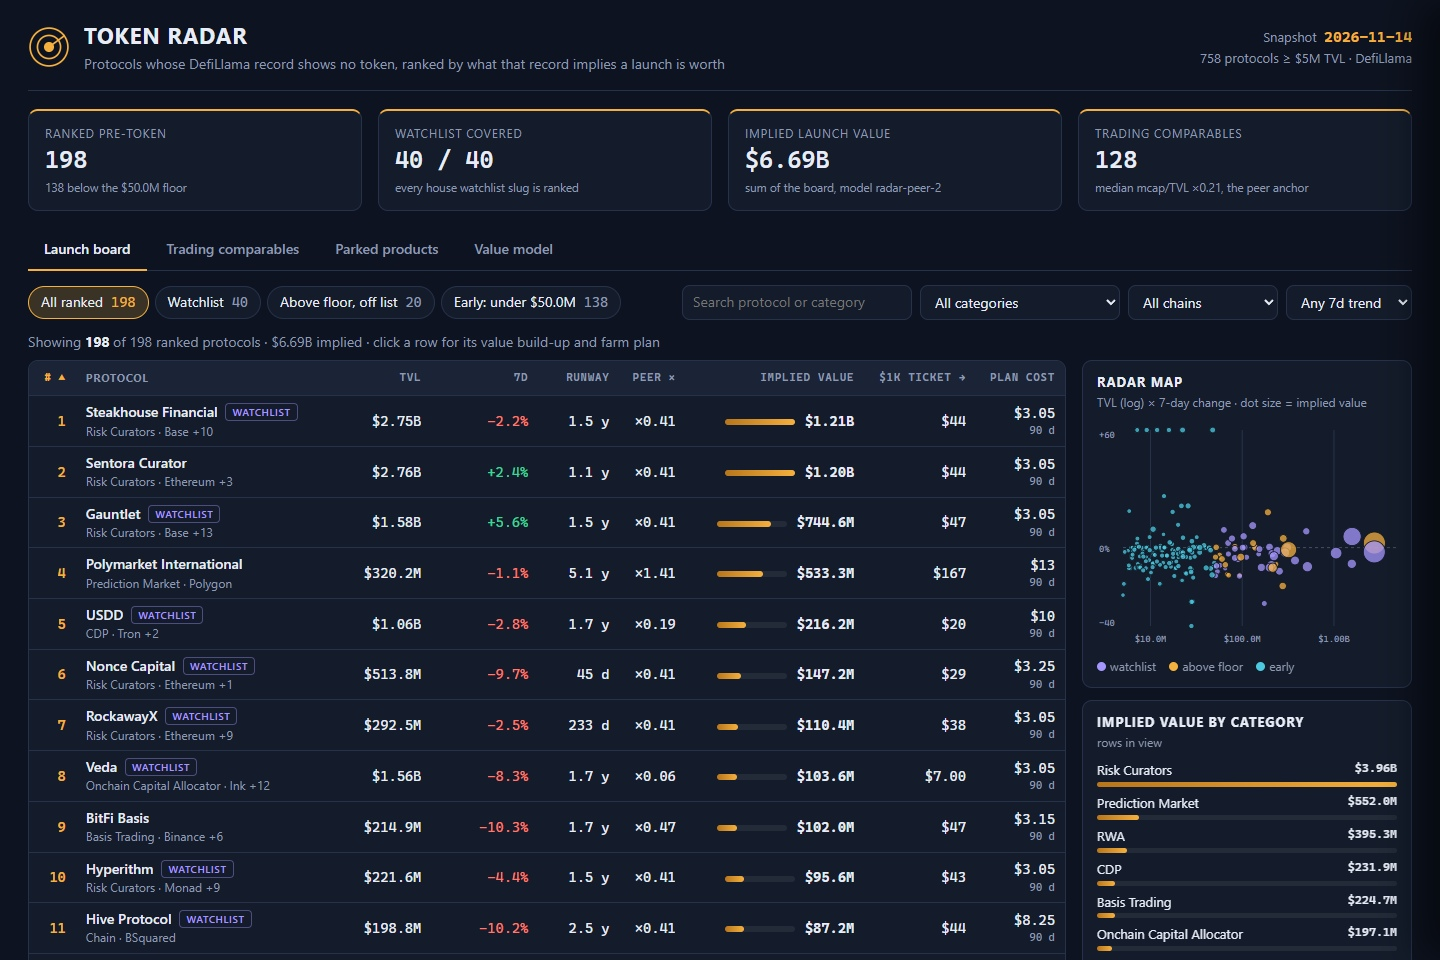
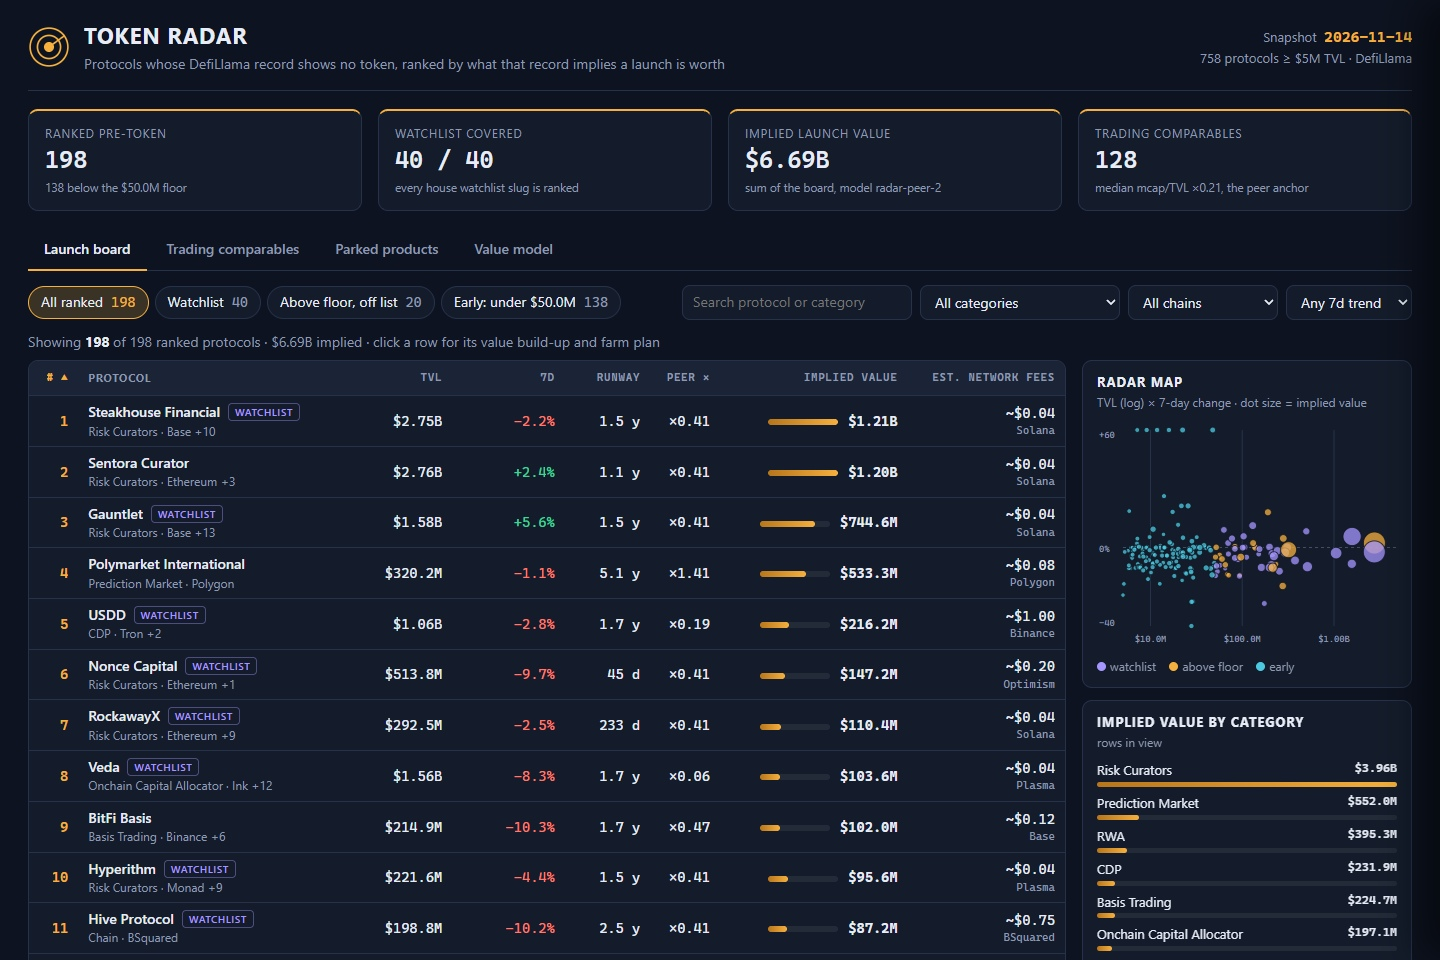
Make token radar farm plans conditional and costed

diff --git a/dashboard/model.js b/dashboard/model.js
@@ -29,9 +29,7 @@
     runway_floor: 0.7,
     runway_span: 0.5,
     runway_tau_days: 365,
-    unknown_age_days: 180,
-    community_share: 0.1,
-    ticket_usd: 1000
+    unknown_age_days: 180
   };
 
   // Categories the house watchlist rule treats as products of a parent token, and the name tests it uses.
@@ -103,11 +101,9 @@
     var age = p.listed_at ? Math.max(0, daysBetween(p.listed_at, asOf)) : null;
     var runway = M.runway_floor + M.runway_span * (1 - Math.exp(-(age === null ? M.unknown_age_days : age) / M.runway_tau_days));
     var implied = Math.max(1, Math.round(p.tvl_usd * multiple * momentum * runway));
-    var pool = implied * M.community_share;
     return {
       multiple: multiple, peer_n: peer ? peer.n : 0, momentum: momentum, growth: growth, age_days: age,
-      runway: runway, implied: implied,
-      per_ticket: Math.round(pool * M.ticket_usd / p.tvl_usd)
+      runway: runway, implied: implied
     };
   }
 
@@ -122,7 +118,8 @@
   /** The playbook family a category farms like. */
   function family(cat) {
     var c = cat || '';
-    if (/Curator|Capital Allocator|Yield|Basis|Stablecoin Wrapper|CeDeFi|Leveraged|Options Vault|Indexes|Farm|Liquidity Manager|Governance/.test(c)) return 'vault';
+    if (/Curator|Capital Allocator/.test(c)) return 'curate';
+    if (/Yield|Basis|Stablecoin Wrapper|CeDeFi|Leveraged|Options Vault|Indexes|Farm|Liquidity Manager|Governance/.test(c)) return 'vault';
     if (/Lending|CDP|Collateral|Uncollateralized/.test(c)) return 'lend';
     if (/Dexs|Derivatives|Prediction|OTC|Interest Rate/.test(c)) return 'trade';
     if (/RWA|Insurance/.test(c)) return 'rwa';
@@ -131,44 +128,46 @@
     return 'vault';
   }
 
-  /** A farm plan: concrete steps, each with an estimated cost (USD), hands-on minutes and calendar days.
-   *  Every number is read off the row (chains, TVL, 7-day change, the model's ticket payout). */
-  function farmPlan(p, s) {
+  /** A conditional participation plan. The snapshot supports chain and category selection only. */
+  function farmPlan(p) {
     var ch = cheapestChain(p.chains), gas = ch.gas, chain = ch.chain;
-    var name = p.name, fam = family(p.category), t = M.ticket_usd;
-    var ppm = (t / p.tvl_usd * 1e6).toFixed(2), steps = [];
-    function step(text, usd, note, minutes, days) {
-      steps.push({ text: text, usd: usd, minutes: minutes, days: days,
-        cost: (usd === 0 ? '$0' : '~' + money(usd)) + (note ? ' + ' + note : ''),
+    var name = p.name, fam = family(p.category), steps = [];
+    function step(title, text, transactions, minutes, days) {
+      var usd = gas * transactions;
+      steps.push({ title: title, text: text, usd: usd, minutes: minutes, days: days,
+        cost: transactions === 0 ? '$0 network fees' : p.chains.length ? '~' + money(usd) + ' network fees' : 'Network fees unknown',
         time: (minutes >= 60 ? (minutes / 60).toFixed(1) + ' h' : minutes + ' min') + ' hands-on' + (days > 0 ? ', over ' + days + ' days' : '') });
     }
-    var bridge = chain === 'Ethereum' ? 0 : 3;
-    step('Open ' + name + ' from its DefiLlama page (a link you trust) and confirm it still records no token; read its docs for a points, XP or season programme and its audits before moving money.', 0, '', 20, 0);
-    step('Fund a fresh wallet on ' + chain + ', the cheapest of its ' + p.chains.length + ' chain' + (p.chains.length === 1 ? '' : 's') + ' (est. ' + money(gas) + ' a transaction), with a $' + t + ' ticket' + (bridge ? ', bridged from Ethereum or withdrawn from an exchange straight to ' + chain : '') + '.', bridge + gas, '', 20, 0);
-    if (fam === 'vault') {
-      step('Deposit the ticket into ' + name + "'s largest stablecoin or ETH vault (approve + deposit, 2 transactions). Your $" + t + ' is ' + ppm + ' ppm of its ' + money(p.tvl_usd) + ' TVL.', gas * 2, '', 5, 0);
-      step('Hold and check weekly: vault share price, any points page, and the 7-day TVL trend (now ' + fmtPct(p.change_7d) + '). Time in the vault usually weighs as much as size.', 0, 'opportunity cost of the ticket', 65, 90);
+    step('Verify eligibility', 'Find the official ' + name + ' docs through its DefiLlama listing. Look for a live campaign, eligible markets, supported chains and a deadline. Stop here if there is no published way to qualify.', 0, 20, 0);
+    step('Check the route', p.chains.length
+      ? 'Verify the campaign supports ' + chain + ', the snapshot chain with the lowest modeled fee. Check the minimum amount, funding route and withdrawal terms before depositing.'
+      : 'Confirm a supported chain, minimum amount and withdrawal terms before depositing. The snapshot supplies no chain for this protocol.', 0, 10, 0);
+    if (fam === 'curate') {
+      step('Find a curated vault', 'Confirm the campaign names a specific vault or lending market. Check which platform hosts it and whether the curator is listed in its official market directory.', 0, 15, 0);
+      step('Verify a minimum deposit', 'If the hosted vault qualifies, check its current cap, underlying markets and withdrawal liquidity. Test the minimum deposit and match the receipt to the campaign tracker.', 2, 15, 7);
+    } else if (fam === 'vault') {
+      step('Test an eligible vault', 'If deposits count, use the smallest accepted amount in a listed vault. Approve only that amount and confirm that the deposit appears in the campaign tracker.', 2, 10, 0);
+      step('Check redemption', 'Record any lockup, exit fee or queue. Check the vault share price and the tracker before the next weekly review.', 0, 10, 7);
     } else if (fam === 'lend') {
-      step('Supply the ticket as collateral on ' + name + ' (approve + supply), then borrow 25-30% in a stablecoin to register as a borrower; stay under half the liquidation limit.', gas * 3 + 4, 'borrow interest', 10, 0);
-      step('Repay and re-borrow once a month to stay an active account; recheck the health factor after any 10% move in the collateral.', gas * 6, '', 30, 90);
+      step('Check the supply market', 'Confirm whether supplying alone qualifies and which assets count. If it does, test an eligible market with its minimum supply and verify campaign credit.', 2, 10, 0);
+      step('Check withdrawal liquidity', 'Review the asset’s utilization and available liquidity before leaving a position open. If the campaign requires borrowing, reassess the plan with interest and liquidation risk included.', 0, 10, 7);
     } else if (fam === 'trade') {
-      step('Trade on ' + name + ': split the ticket into 5 round trips across the month (about $5k volume), using limit orders where offered to keep fees low.', 10 + gas * 10, '', 40, 30);
-      step('Keep a small open position or LP half the ticket in its deepest pair through month end; volume and active days are the usual points inputs on venues like this.', gas * 2, 'impermanent-loss risk', 20, 60);
+      step('Test an eligible action', 'Look up the eligible markets and the minimum trade size. If a trade you already intended qualifies, preview its fee and slippage and verify campaign credit afterwards.', 2, 10, 0);
+      step('Review progress', 'Check the campaign tracker against the trade receipt. Record any position close costs and avoid volume or activity that the campaign excludes.', 0, 10, 7);
     } else if (fam === 'rwa') {
-      step('Complete ' + name + "'s onboarding/KYC if it asks (ID and proof of address); real-world-asset issuers often gate deposits by country.", 0, '', 30, 3);
-      step('Subscribe the minimum the product allows (often $100-1000) and hold it: the asset yield pays you while you wait.', gas * 2, '', 10, 90);
+      step('Check access and redemption', 'Review the issuer’s location and onboarding rules, subscription minimum and redemption windows. Verify the issuer before sharing any identity documents.', 0, 30, 0);
+      step('Check subscription credit', 'If the issuer confirms eligibility and an acceptable redemption window, verify that a minimum subscription qualifies in the account tracker.', 2, 10, 7);
     } else if (fam === 'chain') {
-      step('Bridge to ' + name + ' and make 10 real transactions across its own apps (swap, lend, pay, mint), spread over separate weeks rather than one day.', gas * 10 + 2, '', 60, 28);
-      step('Keep a balance on the network and delegate or run a light node where offered: long-lived balances usually count more than bursts.', 0, 'parked capital', 30, 90);
+      step('Test a listed app', 'Check the campaign’s approved apps and routes. If it includes an app you already use, confirm one eligible action and save the transaction receipt.', 1, 15, 0);
+      step('Review campaign credit', 'Use the official tracker to confirm whether the receipt counted and record any minimum activity days stated in the rules.', 0, 10, 7);
     } else {
-      step('Stake the native asset through ' + name + ' (approve + stake) and note the unbonding period before committing.', gas * 2, 'unbonding delay', 10, 0);
-      step('Hold the receipt token and use it once in a listed DeFi integration; integrations are often counted separately.', gas * 3, '', 20, 75);
+      step('Check the eligible staking route', 'Verify the supported asset, minimum stake and unbonding delay. If the campaign explicitly credits staking, confirm that a minimum stake appears in the tracker.', 2, 10, 0);
+      step('Review withdrawal terms', 'Record the earliest exit date and any slashing or receipt-token price exposure before extending the position.', 0, 10, 7);
     }
-    step('Know the exit before you start: withdrawing to an exchange costs about ' + money(gas * 2) + ' on ' + chain + '. At this board\'s model a $' + t + ' ticket held to a launch maps to ~' + money(s.per_ticket) + ' of a 10% community pool.', gas * 2, '', 5, 0);
-    step('Stop rule: exit if TVL falls 30% below ' + money(p.tvl_usd) + ', if deposits are paused, or if an incident report appears; re-score with each new snapshot.', 0, '', 15, 90);
+    step('Plan the exit', 'Recheck if campaign credit disappears, withdrawals pause, an incident is reported, or TVL falls 30% from the snapshot to ' + money(p.tvl_usd * 0.7) + '. Confirm the official exit instructions before acting.', 2, 10, 0);
     var usd = 0, minutes = 0, days = 0;
     steps.forEach(function (x) { usd += x.usd; minutes += x.minutes; days = Math.max(days, x.days); });
-    return { steps: steps, usd: usd, minutes: minutes, days: days, chain: chain };
+    return { steps: steps, usd: p.chains.length ? usd : null, minutes: minutes, days: days, chain: chain };
   }
 
   function fmtPct(x) { return x === null || x === undefined ? 'unreported' : (x >= 0 ? '+' : '') + x.toFixed(1) + '%'; }
@@ -185,7 +184,7 @@
         parked.push({ slug: p.slug, name: p.name, category: p.category, chains: p.chains, tvl_usd: p.tvl_usd, change_7d: p.change_7d, why: why });
       } else if (recordsNoToken(p)) {
         var s = score(p, peers, snap.as_of);
-        var plan = farmPlan(p, s);
+        var plan = farmPlan(p);
         rows.push({
           slug: p.slug, name: p.name, category: p.category, chains: p.chains, tvl_usd: p.tvl_usd,
           change_7d: p.change_7d, listed_at: p.listed_at, watchlist: !!watch[p.slug],

diff --git a/dashboard/app.js b/dashboard/app.js
@@ -13,20 +13,21 @@
   var COLS = [
     ['rank', '#', 'num'], ['name', 'Protocol', ''], ['tvl', 'TVL', 'num'], ['change', '7d', 'num'],
     ['age', 'Runway', 'num'], ['multiple', 'Peer ×', 'num'], ['implied', 'Implied value', 'num wide'],
-    ['ticket', '$1k ticket →', 'num'], ['cost', 'Plan cost', 'num']
+    ['cost', 'Est. network fees', 'num']
   ];
   var KEY = {
     rank: function (r) { return r.rank; }, name: function (r) { return r.name.toLowerCase(); },
     tvl: function (r) { return r.tvl_usd; }, change: function (r) { return r.change_7d === null ? -1e9 : r.change_7d; },
     age: function (r) { return r.factors.age_days === null ? -1 : r.factors.age_days; },
     multiple: function (r) { return r.factors.multiple; }, implied: function (r) { return r.implied_value_usd; },
-    ticket: function (r) { return r.factors.per_ticket; }, cost: function (r) { return r.plan.usd; }
+    cost: function (r) { return r.plan.usd; }
   };
 
   function esc(s) { return String(s).replace(/[&<>"']/g, function (c) { return '&#' + c.charCodeAt(0) + ';'; }); }
   function $(id) { return document.getElementById(id); }
   function days(d) { return d === null ? 'unknown' : d >= 365 ? (d / 365).toFixed(1) + ' y' : d + ' d'; }
   function x2(v) { return '×' + v.toFixed(2); }
+  function feeLabel(usd) { return usd === null ? 'Unknown' : '~' + money(usd); }
   function cls(v) { return v === null ? 'flat' : v > 0.5 ? 'up' : v < -0.5 ? 'down' : 'flat'; }
 
   /* ---- state in the hash ---- */
@@ -82,7 +83,12 @@
       return true;
     });
     var key = KEY[S.sort] || KEY.rank, dir = S.dir === 'desc' ? -1 : 1;
-    return rows.sort(function (a, b) { var x = key(a), y = key(b); return (x < y ? -1 : x > y ? 1 : a.rank - b.rank) * dir; });
+    return rows.sort(function (a, b) {
+      var x = key(a), y = key(b);
+      if (x === y) return a.rank - b.rank;
+      if (x === null || y === null) return x === null ? 1 : -1;
+      return (x < y ? -1 : 1) * dir;
+    });
   }
 
   function board() {
@@ -96,7 +102,7 @@
         return '<button class="chip' + (S.seg === s[0] ? ' on' : '') + '" data-seg="' + s[0] + '">' + esc(s[1]) + ' <i>' + n + '</i></button>';
       }).join('') + '</div>' +
       '<div class="controls">' +
-      '<input id="q" type="search" placeholder="Search protocol or category" value="' + esc(S.q) + '">' +
+      '<input id="q" type="text" inputmode="search" aria-label="Search protocol or category" placeholder="Search protocol or category" value="' + esc(S.q) + '">' +
       '<select id="cat" aria-label="Category">' + options(cats, S.cat, 'All categories') + '</select>' +
       '<select id="chain" aria-label="Chain">' + options(chains, S.chain, 'All chains') + '</select>' +
       '<select id="mom" aria-label="7-day momentum"><option value="">Any 7d trend</option><option value="up"' + (S.mom === 'up' ? ' selected' : '') + '>TVL growing</option><option value="down"' + (S.mom === 'down' ? ' selected' : '') + '>TVL shrinking</option></select>' +
@@ -121,8 +127,7 @@
       '<td class="num">' + days(f.age_days) + '</td>' +
       '<td class="num">' + x2(f.multiple) + '</td>' +
       '<td class="num wide"><div class="bar"><span style="width:' + w + '%"></span></div><b>' + money(r.implied_value_usd) + '</b></td>' +
-      '<td class="num">' + money(f.per_ticket) + '</td>' +
-      '<td class="num">' + money(r.plan.usd) + '<small>' + r.plan.days + ' d</small></td></tr>';
+      '<td class="num">' + feeLabel(r.plan.usd) + '<small>' + esc(r.plan.chain) + '</small></td></tr>';
   }
 
   /* ---- right rail: radar map and value mix of the rows in view ---- */
@@ -168,7 +173,7 @@
       '<h2>' + esc(r.name) + '</h2>' +
       '<p class="chainlist">' + r.chains.map(esc).join(' · ') + '</p>' +
       '<div class="hero"><div><span>Implied launch value</span><b>' + money(r.implied_value_usd) + '</b></div>' +
-      '<div><span>$1k ticket held to a launch</span><b>' + money(f.per_ticket) + '</b><small>at a ' + (M.community_share * 100) + '% community pool</small></div></div>' +
+      '<div><span>Estimated network fees</span><b>' + feeLabel(r.plan.usd) + '</b><small>' + esc(r.plan.chain) + ' · one test and exit</small></div></div>' +
       '<div class="dcols"><div>' + '<h3>How the value is built</h3><ol class="build">' + steps.map(function (s, i) {
         var tone = i === 0 ? '' : s[3] >= 1 ? ' up' : ' down';
         return '<li><span class="op">' + (i ? '×' : '') + '</span><div><b>' + s[0] + '</b><small>' + s[2] + '</small></div><em class="' + tone + '">' + s[1] + '</em></li>';
@@ -177,7 +182,7 @@
         ['Peer multiple at the all-category median ' + x2(radar.peers.global), r.implied_value_usd / f.multiple * radar.peers.global],
         ['7-day change counted flat', r.implied_value_usd / f.momentum],
         ['Runway at 3 years', r.implied_value_usd / f.runway * (M.runway_floor + M.runway_span * (1 - Math.exp(-1095 / M.runway_tau_days)))],
-        ['TVL down 30% (the stop rule)', r.implied_value_usd * 0.7]
+        ['TVL down 30%', r.implied_value_usd * 0.7]
       ].map(function (v) {
         var d = v[1] / r.implied_value_usd - 1;
         return '<tr><td>' + v[0] + '</td><td class="num">' + money(v[1]) + '</td><td class="num ' + cls(d * 100) + '">' + (d >= 0 ? '+' : '') + Math.round(d * 100) + '%</td></tr>';
@@ -186,9 +191,10 @@
       (peers.length ? '<table class="mini"><tr><th>Protocol</th><th class="num">Mcap</th><th class="num">TVL</th><th class="num">Mcap/TVL</th></tr>' + peers.map(function (l) {
         return '<tr><td>' + esc(l.name) + ' <small>' + esc(l.symbol || '') + '</small></td><td class="num">' + money(l.mcap_usd) + '</td><td class="num">' + money(l.tvl_usd) + '</td><td class="num">' + x2(l.multiple) + '</td></tr>';
       }).join('') + '</table>' : '<p class="note">No protocol in this category trades with a recorded market cap, so the all-category median ' + x2(radar.peers.global) + ' anchors it.</p>') +
-      '</div><div>' + '<h3>Farm plan <small>' + money(r.plan.usd) + ' est. cost · ' + Math.round(r.plan.minutes / 6) / 10 + ' h hands-on · ' + r.plan.days + ' days · on ' + esc(r.plan.chain) + '</small></h3>' +
+      '</div><div>' + '<h3>Farm plan <small>' + r.plan.minutes + ' min hands-on · ' + r.plan.days + '-day review</small></h3>' +
+      '<p class="note plan-note">Start with a free eligibility check. The snapshot has no campaign rules. Fee estimates cover network transactions and exclude funding, capital and protocol charges.</p>' +
       '<ol class="plan">' + r.plan.steps.map(function (s) {
-        return '<li><p>' + esc(s.text) + '</p><span class="c">' + esc(s.cost) + '</span><span class="t">' + esc(s.time) + '</span></li>';
+        return '<li><strong>' + esc(s.title) + '</strong><p>' + esc(s.text) + '</p><span class="c">' + esc(s.cost) + '</span><span class="t">' + esc(s.time) + '</span></li>';
       }).join('') + '</ol></div></div>' +
       '<p class="note">An implied value is this board\'s claim from the record as it stands, not a forecast that a token will launch. DefiLlama records no token for ' + esc(r.name) + '; a token it does not carry may still exist.</p>';
     $('close').onclick = function () { S.p = ''; sync(); };
@@ -219,7 +225,7 @@
       '<li><b>Peer multiple</b> median mcap/TVL of the trading protocols in the same category, blended in log space with ' + M.shrink_k + ' pseudo-peers at the all-category median ' + x2(radar.peers.global) + ', clamped to ' + M.multiple_min + '–' + M.multiple_max + '.</li>' +
       '<li><b>Momentum</b> e^(' + M.momentum_weight + ' × 7-day TVL change), the change clamped to ' + M.momentum_floor + '%…+' + M.momentum_cap + '%; unreported counts flat.</li>' +
       '<li><b>Runway</b> ' + M.runway_floor + ' + ' + M.runway_span + ' × (1 − e^(−days/' + M.runway_tau_days + ')): days since DefiLlama began tracking it with no token. Longer runway, more user history stored up for a launch.</li>' +
-      '<li><b>Ticket payout</b> implied × ' + (M.community_share * 100) + '% community pool × $' + M.ticket_usd + ' / TVL: what a $1k position held to a launch maps to.</li>' +
+      '<li><b>Farm plan</b> uses snapshot category and chains to suggest eligibility checks and a conditional participation route. Network fees are modeled per transaction. Eligibility, capital, funding fees and protocol charges depend on the live campaign.</li>' +
       '<li><b>Parked</b> no-token records in the categories Bridge, Canonical Bridge, Liquid Staking, Liquid Restaking, Restaked BTC or CEX, or with a version suffix, a wrapped/staked word or an exchange name, are listed apart.</li></ul>' +
       '<p class="note">No protocol name is special-cased: one function, RadarModel.build, scores every row, here and in main.ts.</p></section>' +
       '<section class="card"><h3>Peer multiples by category</h3><table class="mini"><tr><th>Category</th><th class="num">Trading peers</th><th class="num">Raw median</th><th class="num">Used</th></tr>' +

diff --git a/dashboard/style.css b/dashboard/style.css
@@ -101,7 +101,7 @@ body.open .scrim { opacity: 1; pointer-events: auto; }
 .hero div { background: var(--panel2); border: 1px solid var(--line); border-radius: var(--r); padding: 10px 14px; }
 .hero span { color: var(--muted); font-size: 12px; }
 .hero b { display: block; font: 600 26px/1.2 var(--mono); color: var(--amber); }
-.hero div + div b { color: var(--up); }
+.hero div + div b { color: var(--teal); }
 .hero small { color: var(--muted); }
 .drawer h3 { font-size: 13px; text-transform: uppercase; letter-spacing: .07em; margin: 20px 0 8px; color: var(--text); }
 .drawer h3 small { display: block; text-transform: none; letter-spacing: 0; color: var(--muted); font-weight: 400; margin-top: 2px; }
@@ -118,6 +118,7 @@ body.open .scrim { opacity: 1; pointer-events: auto; }
 .mini td { padding: 5px 8px; border-top: 1px solid var(--line); }
 .mini small { color: var(--muted); }
 .plan { margin: 0; padding: 0 0 0 22px; }
+.plan-note { margin: 0 0 12px; }
 .plan li { margin: 0 0 10px; padding-left: 4px; }
 .plan li::marker { color: var(--amber); font-family: var(--mono); font-weight: 600; }
 .plan p { margin: 0 0 4px; }
@@ -137,6 +138,15 @@ body.open .scrim { opacity: 1; pointer-events: auto; }
   .kpis { grid-template-columns: 1fr 1fr; }
   .controls { flex-wrap: wrap; } .controls input { width: 100%; }
   .modelgrid { grid-template-columns: 1fr; }
-  .drawer { width: 100%; } .dcols, .boardgrid { grid-template-columns: 1fr; }
+  .drawer { left: 0; width: auto; } .dcols, .boardgrid { grid-template-columns: minmax(0, 1fr); }
   .tablewrap { overflow-x: auto; }
+}
+
+@media (max-width: 520px) {
+  .top { align-items: flex-start; gap: 8px; flex-direction: column; }
+  .stamp { text-align: left; }
+  .stamp span { display: inline; margin-left: 6px; }
+  .tabs { flex-wrap: wrap; }
+  .drawer { padding-inline: 16px; }
+  .hero { grid-template-columns: minmax(0, 1fr); }
 }

diff --git a/main.ts b/main.ts
@@ -37,13 +37,13 @@ const rows: BoardRow[] = radar.rows.map((r: any) => ({
   slug: r.slug,
   name: r.name,
   implied_value_usd: r.implied_value_usd,
-  farm_steps: r.plan.steps.map((s: any) => `${s.text} Cost: ${s.cost}. Time: ${s.time}.`),
+  farm_steps: r.plan.steps.map((s: any) => `${s.title}. ${s.text} Cost: ${s.cost}. Time: ${s.time}.`),
   category: r.category,
   tvl_usd: r.tvl_usd,
   change_7d: r.change_7d,
   segment: r.segment,
   model: { peer_multiple: r.factors.multiple, momentum: r.factors.momentum, runway: r.factors.runway, age_days: r.factors.age_days },
-  plan_cost_usd: Math.round(r.plan.usd * 100) / 100,
+  plan_cost_usd: r.plan.usd === null ? null : Math.round(r.plan.usd * 100) / 100,
   plan_days: r.plan.days,
 }));
 

diff --git a/README.md b/README.md
@@ -11,6 +11,7 @@ Token Radar ranks every protocol whose DefiLlama record shows no token by the la
   The peer multiple is the median mcap/TVL of the protocols in the same category whose token already trades, shrunk toward the all-category median. Momentum comes from the 7-day TVL change. Runway counts the days DefiLlama has tracked the protocol with no token.
 - **Separation**: protocols with trading tokens are kept off the board and serve as the comparables. No-token records that look like a product of a parent (bridges, liquid staking, CEX, wrapped/staked names) are listed apart as *parked*.
 - **Board**: all 40 watchlist protocols plus every other standalone no-token protocol, 198 rows in total. You can sort and filter by segment, category, chain and 7-day trend, open a detail drawer with the value build-up, sensitivity, peers and the farm plan, and see a radar map.
+- **Farm plans** start with a free campaign eligibility check and give category-specific steps for a conditional test, review and exit. Estimated network fees cover those transactions. Live campaign rules, capital requirements and protocol charges need separate confirmation.
 - No network and no dependencies. Two runs write the same bytes.
 
 ## Run it
